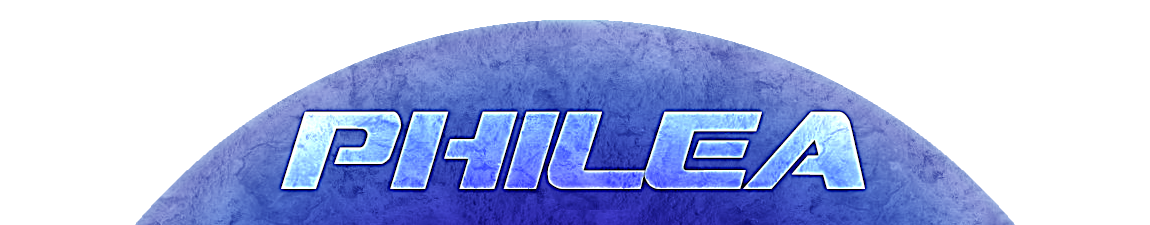
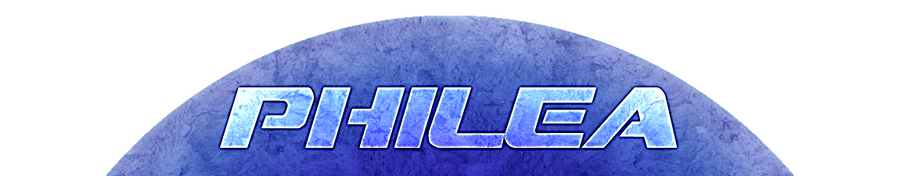
-Ajout de vignettes pour les autres pages -Réparation de routes -Réduction de la taille de la bannière -Réduction de la taille Synoptique

diff --git a/src/Cnes/PhileaBundle/Controller/DefaultController.php b/src/Cnes/PhileaBundle/Controller/DefaultController.php
@@ -339,7 +339,7 @@ class DefaultController extends Controller {
 
             // if ($this->get('security.context')->isGranted('ROLE_GESTIONNAIRE'))
 
-            return $this->redirect($this->generateUrl('cnes_philea_default_gestion'));
+            return $this->redirect($this->generateUrl('philea_gestionnaires'));
         } else {
             throw $this->createNotFoundException('Vous n\'avez pas le droit d\'accéder à cette page');
         }
@@ -464,7 +464,7 @@ class DefaultController extends Controller {
                 $etape->setIsValide(Etape::ATTENTE_VALIDATION);
                 $em->flush();
             }
-            return $this->redirect($this->generateUrl('cnes_philea_default_gestion'));
+            return $this->redirect($this->generateUrl('philea_gestionnaires'));
         } else {
             throw $this->createNotFoundException('Vous n\'avez pas le droit d\'accédez à cette page');
         }
